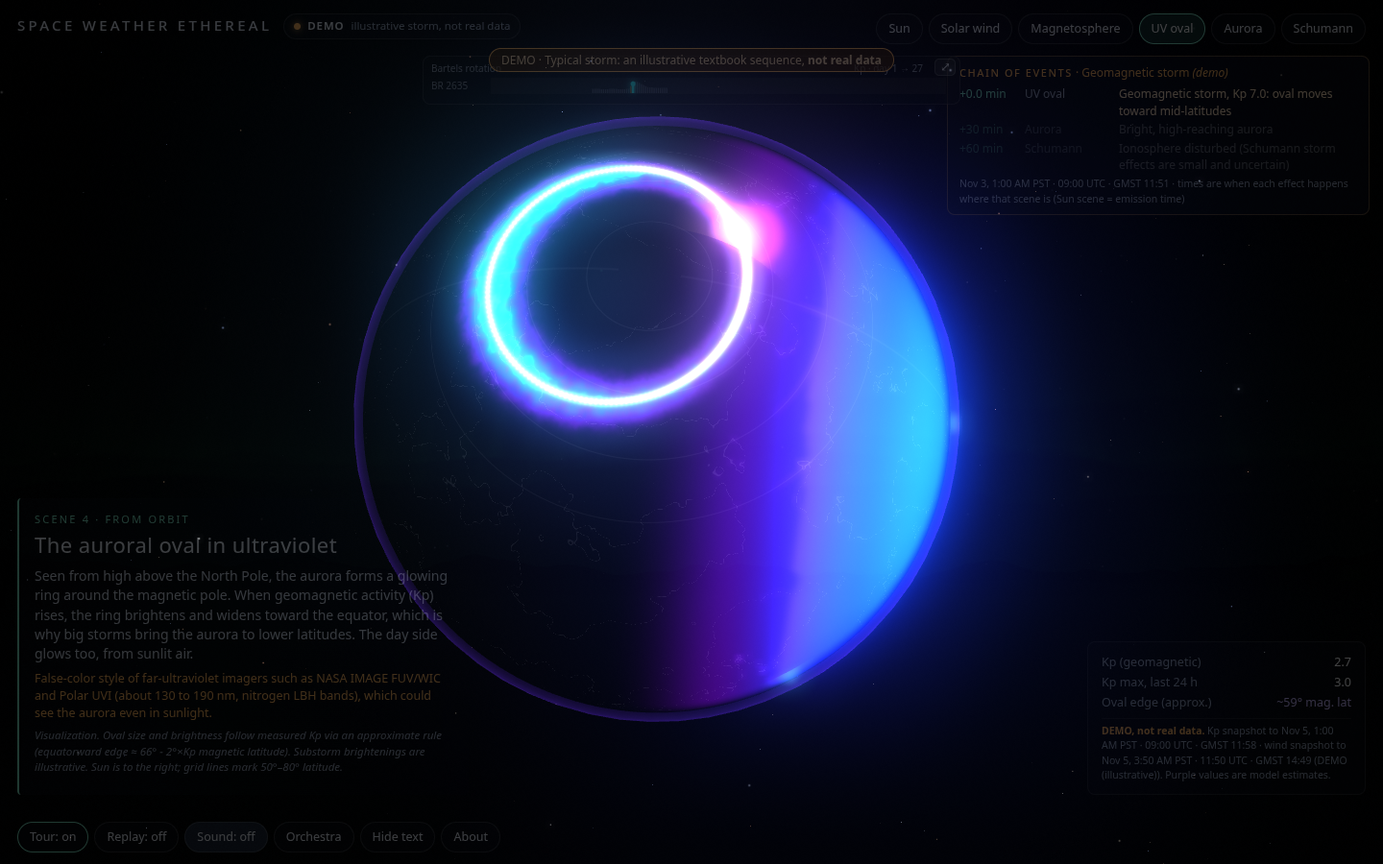
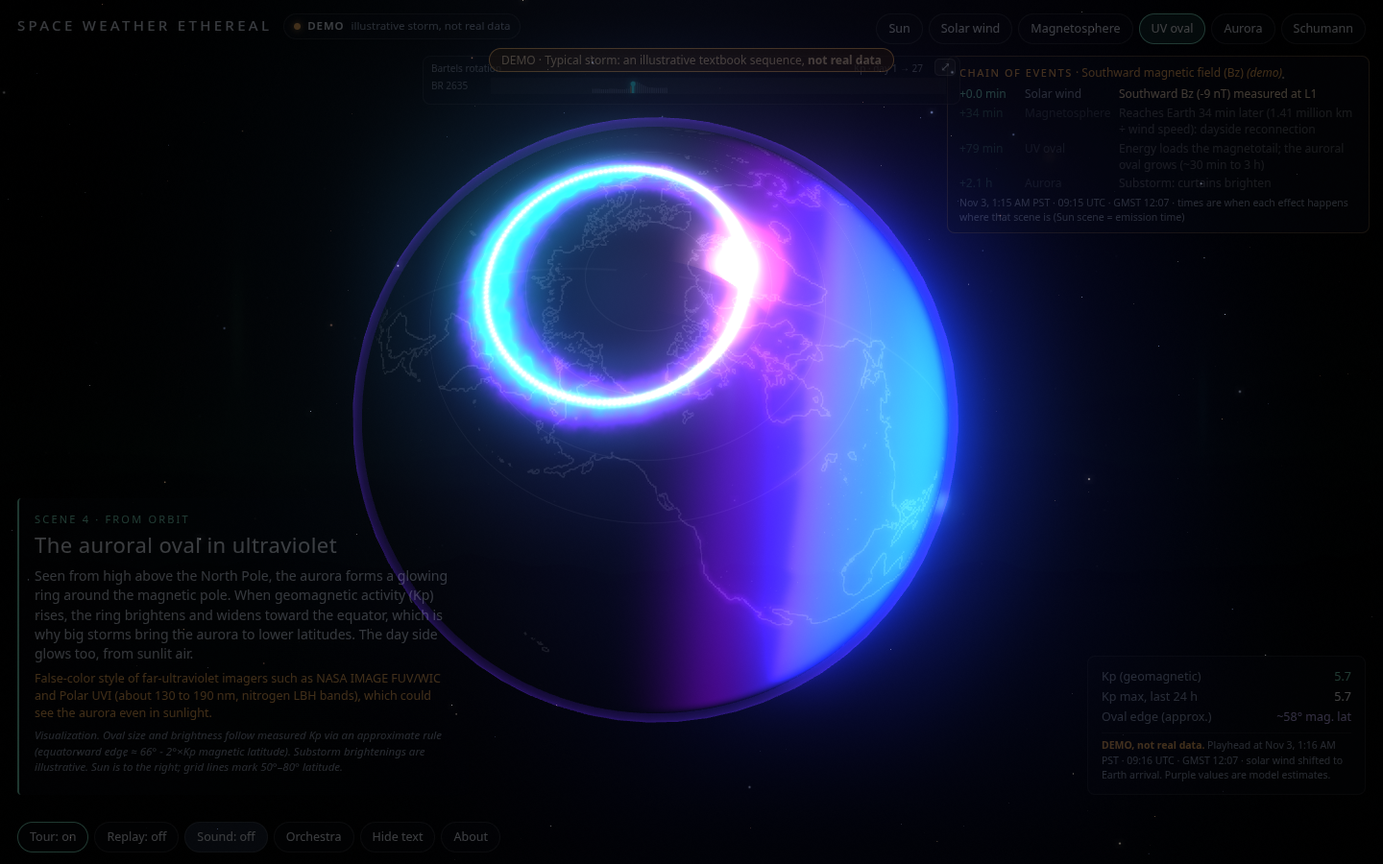
Real Earth on every globe: NASA Blue Marble NG (topography + bathymetry) day imagery, Black Marble 2016 night lights, ocean glint from a water mask, real coastlines in the UV oval; textures served from assets/ (4K desktop, 2K phones) with procedural fallback while loading; credits in About, NOTICE a

diff --git a/js/scenes/schumann.js b/js/scenes/schumann.js
@@ -2,6 +2,7 @@ import * as THREE from 'three';
 import { NOISE } from '../glsl.js';
 import { makeStars, makeNebula } from '../stars.js';
 import { LAND_W, LAND_H } from '../landmask.js';
+import { EARTH_U, EARTH_GLSL } from '../earthtex.js';
 import { land, srAt, srSpectrum, sampleStorm, diurnal, geo, subsolar, REGIONS, SR_F0 } from '../schumann.js';
 
 // Scene 6: the Earth-ionosphere cavity and its Schumann resonances (MODELED, see js/schumann.js).
@@ -26,15 +27,17 @@ export function createSchumann(ctx) {
     uTime: { value: 0 }, uSun: { value: sunDir }, uLand: { value: tex }, uFlare: { value: 0 }, uPCA: { value: 0 }, uStorm: { value: 0 },
     uA: { value: [1, 0.7, 0.5, 0.35, 0.25] }, uPh: { value: [0, 0, 0, 0, 0] }, uHi: { value: [0, 0, 0, 0, 0] },
     uAxis: { value: new THREE.Vector3(...CENTERS[1]) }, uHiCol: { value: new THREE.Color(1, 1, 1) }, uI: { value: 1 }, uKp: { value: 2 },
+    ...EARTH_U,
   };
   const geoGLSL = /* glsl */`
     vec2 lonlat(vec3 p){ return vec2(atan(-p.z, p.x), asin(clamp(p.y,-1.0,1.0))); }`;
   // ---------- Earth
   const earth = new THREE.Mesh(new THREE.SphereGeometry(1, 128, 64), new THREE.ShaderMaterial({
     uniforms: U,
-    vertexShader: `varying vec3 vP; varying vec3 vN; varying vec3 vV; void main(){ vP=normalize(position); vN=normalize(mat3(modelMatrix)*normal); vec4 w=modelMatrix*vec4(position,1.0); vV=normalize(cameraPosition-w.xyz); gl_Position=projectionMatrix*viewMatrix*w; }`,
-    fragmentShader: NOISE + geoGLSL + /* glsl */`
-      uniform sampler2D uLand; uniform vec3 uSun; uniform float uTime, uFlare; varying vec3 vP; varying vec3 vN; varying vec3 vV;
+    vertexShader: `varying vec3 vP; varying vec3 vN; varying vec3 vV; varying vec2 vUv; varying vec3 vVl; void main(){ vUv=uv; vP=normalize(position); vN=normalize(mat3(modelMatrix)*normal); vec4 w=modelMatrix*vec4(position,1.0); vV=normalize(cameraPosition-w.xyz);
+      vVl = normalize((inverse(modelMatrix)*vec4(cameraPosition,1.0)).xyz - position); gl_Position=projectionMatrix*viewMatrix*w; }`,
+    fragmentShader: NOISE + geoGLSL + EARTH_GLSL + /* glsl */`
+      uniform sampler2D uLand; uniform vec3 uSun; uniform float uTime, uFlare; varying vec3 vP; varying vec3 vN; varying vec3 vV; varying vec2 vUv; varying vec3 vVl;
       void main(){
         vec2 ll = lonlat(vP);
         vec2 uv = vec2((ll.x + 3.14159265)/6.2831853, (1.5707963 - ll.y)/3.14159265);
@@ -51,6 +54,9 @@ export function createSchumann(ctx) {
         float day = smoothstep(-0.1, 0.25, d);
         vec3 col = c*(0.05 + 0.72*day);
         col += vec3(1.0,0.65,0.3) * landM * (1.0-day) * smoothstep(0.6,0.8, snoise(vP*55.0)) * 0.12; // faint city lights
+        // real Earth (NASA Blue Marble), a little dimmer so the cavity modes and lightning stay readable
+        // (sphere uv: same lon/lat as the land mask above, seamless; lighting in the globe's own frame)
+        if (uEarthOn > 0.5) col = earthLit(vUv, normalize(vP), normalize(uSun), normalize(vVl), 0.62, 0.05);
         float rim = pow(1.0 - max(dot(normalize(vN), normalize(vV)),0.0), 3.0);
         col += vec3(0.25,0.5,1.0) * rim * (0.12 + 0.6*max(d+0.2,0.0));
         gl_FragColor = vec4(col, 1.0);
@@ -94,7 +100,8 @@ export function createSchumann(ctx) {
   // ---------- ionosphere shell (the cavity ceiling): dayside brighter; flares, protons and storms light it
   const ion = new THREE.Mesh(new THREE.SphereGeometry(ION_R, 96, 48), new THREE.ShaderMaterial({
     uniforms: U, transparent: true, depthWrite: false, blending: THREE.AdditiveBlending, side: THREE.DoubleSide,
-    vertexShader: `varying vec3 vP; varying vec3 vN; varying vec3 vV; void main(){ vP=normalize(position); vN=normalize(mat3(modelMatrix)*normal); vec4 w=modelMatrix*vec4(position,1.0); vV=normalize(cameraPosition-w.xyz); gl_Position=projectionMatrix*viewMatrix*w; }`,
+    vertexShader: `varying vec3 vP; varying vec3 vN; varying vec3 vV; varying vec2 vUv; varying vec3 vVl; void main(){ vUv=uv; vP=normalize(position); vN=normalize(mat3(modelMatrix)*normal); vec4 w=modelMatrix*vec4(position,1.0); vV=normalize(cameraPosition-w.xyz);
+      vVl = normalize((inverse(modelMatrix)*vec4(cameraPosition,1.0)).xyz - position); gl_Position=projectionMatrix*viewMatrix*w; }`,
     fragmentShader: NOISE + /* glsl */`
       uniform vec3 uSun; uniform float uTime, uFlare, uPCA, uStorm, uKp; varying vec3 vP; varying vec3 vN; varying vec3 vV;
       void main(){

diff --git a/js/scenes/earth.js b/js/scenes/earth.js
@@ -1,40 +1,44 @@
 import * as THREE from 'three';
 import { NOISE } from '../glsl.js';
+import { EARTH_U, EARTH_GLSL, loadEarth } from '../earthtex.js';
 
-// Procedural Earth (not a map): noise continents, day/night terminator, thin atmosphere rim.
+// Earth from NASA Blue Marble imagery (real continents and oceans; procedural fallback until it loads),
+// day/night terminator, ocean glint, Black Marble city lights, thin atmosphere rim.
 // Optional auroral-oval emission (opts.aurora) drawn by the same shader.
 export function makeEarth(radius, opts = {}) {
+  loadEarth({ low: opts.low });
   const mat = new THREE.ShaderMaterial({
     uniforms: {
       uSun: { value: (opts.sun || new THREE.Vector3(1, 0, 0)).clone() },
       uKp: { value: 2 }, uTime: { value: 0 }, uAur: { value: opts.aurora ? 1 : 0 },
-      uSpin: { value: 0 }, uDay: { value: opts.day ?? 1 },
+      uSpin: { value: 0 }, uDay: { value: opts.day ?? 1 }, ...EARTH_U,
     },
     vertexShader: /* glsl */`
-      varying vec3 vN; varying vec3 vP; varying vec3 vV;
-      void main(){ vP = normalize(position); vN = normalize(mat3(modelMatrix)*normal);
+      varying vec3 vN; varying vec3 vP; varying vec3 vV; varying vec2 vUv;
+      void main(){ vUv = uv; vP = normalize(position); vN = normalize(mat3(modelMatrix)*normal);
         vec4 w = modelMatrix*vec4(position,1.0); vV = normalize(cameraPosition - w.xyz);
         gl_Position = projectionMatrix*viewMatrix*w; }`,
-    fragmentShader: NOISE + /* glsl */`
+    fragmentShader: NOISE + EARTH_GLSL + /* glsl */`
       uniform vec3 uSun; uniform float uKp, uTime, uAur, uSpin, uDay;
-      varying vec3 vN; varying vec3 vP; varying vec3 vV;
+      varying vec3 vN; varying vec3 vP; varying vec3 vV; varying vec2 vUv;
       void main(){
-        // spin the surface pattern (geographic) under the fixed Sun
-        float cs = cos(uSpin), sn = sin(uSpin);
-        vec3 g = vec3(cs*vP.x - sn*vP.z, vP.y, sn*vP.x + cs*vP.z);
-        float h = fbm(g*1.8 + 3.0);
-        float land = smoothstep(0.02, 0.09, h);
-        float ice = smoothstep(0.80, 0.92, abs(vP.y));
-        vec3 ocean = vec3(0.03,0.10,0.26), ground = mix(vec3(0.16,0.24,0.12), vec3(0.32,0.28,0.18), smoothstep(0.1,0.4,h));
-        vec3 c = mix(ocean, ground, land); c = mix(c, vec3(0.75,0.8,0.86), ice);
-        float cloud = smoothstep(0.15, 0.6, fbm3(g*3.5 + vec3(uTime*0.004,0,0)));
-        c = mix(c, vec3(0.85), cloud*0.45);
         float d = dot(normalize(vN), normalize(uSun));
-        float day = smoothstep(-0.08, 0.25, d);
-        vec3 col = c * (0.035 + 1.05*day*uDay);
-        // city lights on the night side (faint)
-        float city = smoothstep(0.55, 0.75, snoise(g*40.0)) * land * (1.0-ice) * (1.0-day);
-        col += vec3(1.0,0.7,0.35)*city*0.25;
+        vec3 col;
+        if (uEarthOn > 0.5) {
+          // real Earth (NASA Blue Marble + Black Marble); the globe spins under the fixed Sun
+          col = earthLit(vec2(vUv.x - uSpin/6.2831853, vUv.y), normalize(vN), normalize(uSun), normalize(vV), uDay, 0.035);
+        } else {
+          // procedural stand-in while the imagery loads
+          float cs = cos(uSpin), sn = sin(uSpin);
+          vec3 g = vec3(cs*vP.x - sn*vP.z, vP.y, sn*vP.x + cs*vP.z);
+          float h = fbm(g*1.8 + 3.0);
+          float land = smoothstep(0.02, 0.09, h);
+          float ice = smoothstep(0.80, 0.92, abs(vP.y));
+          vec3 ocean = vec3(0.03,0.10,0.26), ground = mix(vec3(0.16,0.24,0.12), vec3(0.32,0.28,0.18), smoothstep(0.1,0.4,h));
+          vec3 c = mix(ocean, ground, land); c = mix(c, vec3(0.75,0.8,0.86), ice);
+          float day = smoothstep(-0.08, 0.25, d);
+          col = c * (0.035 + 1.05*day*uDay);
+        }
         // atmosphere rim
         float rim = pow(1.0 - max(dot(normalize(vN), normalize(vV)),0.0), 3.0);
         col += vec3(0.25,0.5,1.0) * rim * (0.15 + 0.7*max(d+0.2,0.0));

diff --git a/js/earthtex.js b/js/earthtex.js
@@ -1,0 +1,49 @@
+import * as THREE from 'three';
+
+// Real Earth imagery shared by every globe (magnetosphere, solar wind, Schumann, UV oval).
+// NASA Earth Observatory, public domain (see assets/README.md):
+//   day   - Blue Marble Next Generation with topography and bathymetry, September 2004
+//   aux R - water mask (from the Blue Marble base map): ocean glint and coastlines
+//   aux G - Black Marble 2016 night lights
+// Equirectangular, x = 0 at 180° W, top row = 90° N. On a three.js SphereGeometry the default uv
+// already matches that (u = 0.5 at +x = 0° longitude, +z = 90° W, v = 1 at +y = north), which is the
+// same lon/lat convention the Schumann scene and its land mask use. Until the images arrive, the
+// shaders fall back to their procedural surface (uEarthOn = 0).
+const base = new URL('../assets/', import.meta.url).href;
+let started = false, low = false;
+const blank = (rgb) => { const t = new THREE.DataTexture(new Uint8Array([...rgb, 255]), 1, 1); t.needsUpdate = true; return t; };
+export const EARTH_U = {
+  uEarthDay: { value: blank([6, 20, 50]) },
+  uEarthAux: { value: blank([255, 0, 0]) },
+  uEarthOn: { value: 0 },
+};
+const state = { day: null, aux: null, loaded: 0, errors: [], anis: 1, ms: 0 };
+export function loadEarth(opts = {}) {
+  if (started) return EARTH_U; started = true; low = !!opts.low;
+  const t0 = performance.now(), L = new THREE.TextureLoader();
+  const done = () => { if (state.loaded === 2) { EARTH_U.uEarthOn.value = 1; state.ms = Math.round(performance.now() - t0); } };
+  const prep = (t) => { t.colorSpace = THREE.NoColorSpace; t.wrapS = THREE.RepeatWrapping; t.anisotropy = state.anis; t.minFilter = THREE.LinearMipmapLinearFilter; t.needsUpdate = true; return t; };
+  state.day = (low ? 'earth_day_2048.jpg' : 'earth_day_4096.jpg'); state.aux = 'earth_aux_2048.jpg';
+  L.load(base + state.day, (t) => { EARTH_U.uEarthDay.value = prep(t); state.loaded++; done(); }, undefined, (e) => state.errors.push('day: ' + (e && e.message || e)));
+  L.load(base + state.aux, (t) => { EARTH_U.uEarthAux.value = prep(t); state.loaded++; done(); }, undefined, (e) => state.errors.push('aux: ' + (e && e.message || e)));
+  return EARTH_U;
+}
+export function setEarthAnisotropy(n) { state.anis = Math.min(8, n || 1); for (const k of ['uEarthDay', 'uEarthAux']) { const t = EARTH_U[k].value; if (t && t.isTexture && !t.isDataTexture) { t.anisotropy = state.anis; t.needsUpdate = true; } } }
+export function earthStatus() { return { on: EARTH_U.uEarthOn.value, files: [state.day, state.aux], loaded: state.loaded, ms: state.ms, errors: state.errors, anisotropy: state.anis }; }
+
+// GLSL: sample the real Earth at a sphere uv (u shifted by -spin/2pi when the globe spins under a fixed Sun)
+export const EARTH_GLSL = /* glsl */`
+  uniform sampler2D uEarthDay, uEarthAux; uniform float uEarthOn;
+  vec3 earthDay(vec2 uv){ return texture2D(uEarthDay, uv).rgb; }
+  vec2 earthAux(vec2 uv){ return texture2D(uEarthAux, uv).rg; }   // x = water (1 = ocean), y = night lights
+  // lit real-Earth color: day side imagery, ocean glint toward the Sun, city lights on the night side
+  vec3 earthLit(vec2 uv, vec3 N, vec3 L, vec3 V, float dayAmt, float ambient){
+    vec3 day = earthDay(uv); vec2 ax = earthAux(uv);
+    float d = dot(N, L);
+    float lit = smoothstep(-0.10, 0.30, d);
+    vec3 col = day * (ambient + 0.95*lit*dayAmt);
+    vec3 H = normalize(L + V);
+    col += vec3(1.0, 0.92, 0.8) * ax.x * pow(max(dot(N, H), 0.0), 90.0) * 0.32 * lit * dayAmt;  // sun glint on water
+    col += vec3(1.0, 0.72, 0.38) * pow(ax.y, 1.6) * 0.9 * (1.0 - smoothstep(-0.18, 0.06, d)); // night lights
+    return col;
+  }`;

diff --git a/js/scenes/aurora.js b/js/scenes/aurora.js
@@ -1,4 +1,5 @@
 import * as THREE from 'three';
+import { EARTH_U, EARTH_GLSL } from '../earthtex.js';
 import { NOISE, rng } from '../glsl.js';
 import { makeStars } from '../stars.js';
 
@@ -16,16 +17,16 @@ export function createOval(ctx) {
   const camera = new THREE.PerspectiveCamera(40, 1, 0.1, 5000);
   camera.position.set(0, 34, 8);
   const RE = 8;
-  const U = { uTime: { value: 0 }, uKp: { value: 2 }, uSpin: { value: 0 }, uSub: { value: 0 } };
+  const U = { uTime: { value: 0 }, uKp: { value: 2 }, uSpin: { value: 0 }, uSub: { value: 0 }, ...EARTH_U };
   const mat = new THREE.ShaderMaterial({
     uniforms: U,
     vertexShader: /* glsl */`
-      varying vec3 vP; varying vec3 vN; varying vec3 vV;
-      void main(){ vP = normalize(position); vN = normalize(mat3(modelMatrix)*normal);
+      varying vec3 vP; varying vec3 vN; varying vec3 vV; varying vec2 vUv;
+      void main(){ vUv = uv; vP = normalize(position); vN = normalize(mat3(modelMatrix)*normal);
         vec4 w = modelMatrix*vec4(position,1.0); vV = normalize(cameraPosition-w.xyz);
         gl_Position = projectionMatrix*viewMatrix*w; }`,
-    fragmentShader: NOISE + /* glsl */`
-      uniform float uTime, uKp, uSpin, uSub; varying vec3 vP; varying vec3 vN; varying vec3 vV;
+    fragmentShader: NOISE + EARTH_GLSL + /* glsl */`
+      uniform float uTime, uKp, uSpin, uSub; varying vec3 vP; varying vec3 vN; varying vec3 vV; varying vec2 vUv;
       vec3 uvi(float x){ // black-purple-blue-cyan-green-yellow-red-white false-color bar
         x = clamp(x, 0.0, 1.0);
         vec3 c = mix(vec3(0.0), vec3(0.28,0.0,0.45), smoothstep(0.0,0.12,x));
@@ -58,12 +59,19 @@ export function createOval(ctx) {
         float dayglow = 0.30*smoothstep(-0.1, 0.9, sza);
         float v = dayglow + aur;
         vec3 col = uvi(v);
-        // faint procedural "coastlines" and magnetic latitude grid, as overlaid on UV images
-        float cs = cos(uSpin), sn = sin(uSpin);
-        vec3 g = vec3(cs*vP.x - sn*vP.z, vP.y, sn*vP.x + cs*vP.z);
-        float h = fbm(g*1.8 + 3.0);
-        float coast = 1.0 - smoothstep(0.0, 0.006, abs(h - 0.05));
-        col += vec3(0.5)*coast*0.16;
+        // coastlines and magnetic latitude grid, as overlaid on UV images (real coastlines from the
+        // NASA Blue Marble water mask once it has loaded; procedural before that)
+        float coast;
+        if (uEarthOn > 0.5) {
+          float w = earthAux(vec2(vUv.x - uSpin/6.2831853, vUv.y)).x;
+          coast = 1.0 - smoothstep(0.0, 1.6*fwidth(w) + 1e-4, abs(w - 0.5));
+        } else {
+          float cs = cos(uSpin), sn = sin(uSpin);
+          vec3 g = vec3(cs*vP.x - sn*vP.z, vP.y, sn*vP.x + cs*vP.z);
+          float h = fbm(g*1.8 + 3.0);
+          coast = 1.0 - smoothstep(0.0, 0.006, abs(h - 0.05));
+        }
+        col += vec3(0.5)*coast*0.2;
         float grid = 0.0;
         for (int k=5;k<=8;k++){ grid += 1.0 - smoothstep(0.0, 0.18, abs(lat - float(k)*10.0)); }
         float mer = (1.0 - smoothstep(0.0, 0.006, abs(vP.z))) * step(lat, 85.0);

diff --git a/js/scenes/wind.js b/js/scenes/wind.js
@@ -1,6 +1,7 @@
 import * as THREE from 'three';
 import { NOISE, rng } from '../glsl.js';
 import { makeStars, makeNebula } from '../stars.js';
+import { EARTH_U, EARTH_GLSL } from '../earthtex.js';
 
 // Scene 2: the solar wind streaming from the Sun past Earth, with the Parker spiral.
 // Spiral pitch uses the real relation tan(psi) = Omega_sun * r / v (about 45 degrees at 1 AU
@@ -115,13 +116,16 @@ export function createWind(ctx) {
   // --- Earth with a hint of its magnetic bubble, and Earth's orbit
   const earth = new THREE.Group(); earth.position.set(AU, 0, 0); scene.add(earth);
   earth.add(new THREE.Mesh(new THREE.SphereGeometry(1.4, 48, 24), new THREE.ShaderMaterial({
-    uniforms: { uSun: { value: new THREE.Vector3(-1, 0, 0) } },
-    vertexShader: `varying vec3 vN; varying vec3 vW; void main(){ vN=normalize(mat3(modelMatrix)*normal); vW=normalize(position); gl_Position=projectionMatrix*modelViewMatrix*vec4(position,1.0);} `,
-    fragmentShader: NOISE + `uniform vec3 uSun; varying vec3 vN; varying vec3 vW; void main(){
-      float land = smoothstep(0.05,0.12,fbm3(vW*2.2));
-      vec3 c = mix(vec3(0.05,0.18,0.45), vec3(0.22,0.35,0.2), land);
-      float d = max(dot(vN,uSun),0.0); float rim = pow(max(1.0-abs(vN.z),0.0),3.0);
-      gl_FragColor = vec4(c*(0.12+1.1*d) + vec3(0.3,0.55,1.0)*0.25*d, 1.0);} `,
+    uniforms: { uSun: { value: new THREE.Vector3(-1, 0, 0) }, ...EARTH_U },
+    vertexShader: `varying vec3 vN; varying vec3 vW; varying vec2 vUv; varying vec3 vV; void main(){ vUv=uv; vN=normalize(mat3(modelMatrix)*normal); vW=normalize(position);
+      vec4 w=modelMatrix*vec4(position,1.0); vV=normalize(cameraPosition-w.xyz); gl_Position=projectionMatrix*viewMatrix*w;} `,
+    fragmentShader: NOISE + EARTH_GLSL + `uniform vec3 uSun; varying vec3 vN; varying vec3 vW; varying vec2 vUv; varying vec3 vV; void main(){
+      vec3 N = normalize(vN); float d = max(dot(N,uSun),0.0);
+      vec3 col;
+      if (uEarthOn > 0.5) col = earthLit(vUv, N, uSun, normalize(vV), 1.0, 0.10);   // real Earth (NASA Blue Marble)
+      else { float land = smoothstep(0.05,0.12,fbm3(vW*2.2)); col = mix(vec3(0.05,0.18,0.45), vec3(0.22,0.35,0.2), land)*(0.12+1.1*d); }
+      float rim = pow(1.0 - max(dot(N, normalize(vV)), 0.0), 3.0);
+      gl_FragColor = vec4(col + vec3(0.3,0.55,1.0)*(0.08*d + 0.3*rim*(0.2+d)), 1.0);} `,
   })));
   const shockMat = new THREE.ShaderMaterial({
     uniforms: { uFade: U.uFade, uTime: U.uTime },

diff --git a/js/main.js b/js/main.js
@@ -19,6 +19,7 @@ import { createReactions } from './reactions.js';
 import { BartelsStrip } from './strip.js';
 import { buildPanel } from './panel.js';
 import * as spatial from './spatial.js';
+import { loadEarth, setEarthAnisotropy, earthStatus } from './earthtex.js';
 import { airplaySupported, watchAirPlay, mkAudio, OUT_ID, unlockStats } from './audiounlock.js';
 
 // Colors are authored directly in display space; no color-space conversion anywhere.
@@ -48,6 +49,8 @@ renderer.outputColorSpace = THREE.LinearSRGBColorSpace;
 renderer.toneMapping = THREE.NoToneMapping;
 
 // ---------- scenes
+// real Earth imagery (NASA Blue Marble / Black Marble, served from assets/): 2K on phones, 4K elsewhere
+loadEarth({ low }); setEarthAnisotropy(renderer.capabilities.getMaxAnisotropy());
 const ctx = { pr: Q.pr, particles: Q.particles, stars: Q.stars, mobile: Q.mobile };
 const scenes = [createSun(ctx), createWind(ctx), createMagneto(ctx), createOval(ctx), createCurtain(ctx), createSchumann(ctx)];
 const byId = Object.fromEntries(scenes.map((s, i) => [s.id, i]));
@@ -578,5 +581,5 @@ function setDemo(on) {
     lonIn.addEventListener('change', () => { const x = lonIn.value.trim(); setLon(x === '' ? null : x); setBadge(); readout(); drawMarkers(); drawHUD(); $('lon-note').textContent = getLon() === null ? 'Showing GMST only.' : `Showing LST for ${getLon()}°.`; });
   }
   if (params.get('orch') === '1') toggleOrch(true);
-  window.__spacewx = { spatial, THREE, unlockStats, setStripBig, goQueue, get shown() { return shown; }, get D() { return D; }, P, scenes, go, orch, reactions, strip, opt, chainLog, setDemo, clockT, get cur() { return cur; }, get playK() { return playK; } };
+  window.__spacewx = { spatial, THREE, unlockStats, earthTex: { status: earthStatus }, setStripBig, goQueue, get shown() { return shown; }, get D() { return D; }, P, scenes, go, orch, reactions, strip, opt, chainLog, setDemo, clockT, get cur() { return cur; }, get playK() { return playK; } };
 })();

diff --git a/index.html b/index.html
@@ -80,7 +80,8 @@
     <ul>
       <li>NOAA Space Weather Prediction Center (SWPC): planetary K-index, real-time solar wind and IMF, 10.7 cm flux, SWPC sunspot number. Fetched live when your browser can reach it.</li>
       <li>NOAA SWPC GOES X-ray flux and ≥10 MeV protons (live, with a bundled 7-day snapshot).</li>
-      <li>Natural Earth 1:110m land (public domain) for the continents in the Schumann scene.</li>
+      <li>Earth's surface: NASA Earth Observatory <b>Blue Marble: Next Generation</b> (September 2004, with topography and bathymetry; Reto Stöckli, Jesse Allen, GEBCO data) and <b>Black Marble 2016</b> night lights (Joshua Stevens, Suomi NPP VIIRS data, Miguel Román, NASA GSFC). NASA imagery, public domain in the US; credit NASA. Served from this site.</li>
+      <li>Natural Earth 1:110m land (public domain) for the lightning land mask in the Schumann model.</li>
       <li>GFZ Helmholtz Centre for Geosciences, Potsdam: Kp history, Ap, F10.7 observed, international sunspot number (SILSO). Included as a bundled snapshot.</li>
     </ul>
     <div id="about-status"></div>

diff --git a/tools/shoot_earth.py b/tools/shoot_earth.py
@@ -1,0 +1,40 @@
+#!/usr/bin/env python3
+"""Earth screenshots: python3 tools/shoot_earth.py --tag after -> screenshots/earth-<tag>.png (magnetosphere),
+earth-closeup-<tag>.png, earth-schumann-<tag>.png, earth-wind-<tag>.png, earth-oval-<tag>.png, earth-mobile-<tag>.png"""
+import argparse, json, os, time
+from playwright.sync_api import sync_playwright
+ap = argparse.ArgumentParser(); ap.add_argument("--base", default="http://localhost:8931/"); ap.add_argument("--tag", default="after")
+ap.add_argument("--out", default=os.path.join(os.path.dirname(os.path.dirname(os.path.abspath(__file__))), "screenshots"))
+a = ap.parse_args()
+args = ["--use-angle=swiftshader", "--enable-unsafe-swiftshader", "--ignore-gpu-blocklist", "--enable-webgl"]
+HIDE = "() => { document.getElementById('ui').style.display = 'none'; }"
+def cam(i, target, pos):
+    return f"""() => {{ const s = window.__spacewx; s.go({i}, true); const sc = s.scenes[{i}], c = sc.controls; sc.lastUser = 1e9;
+      c.target.set({target}); sc.camera.position.set({pos}); c.update(); }}"""
+res = {}
+with sync_playwright() as p:
+    b = p.chromium.launch(args=args)
+    for name, kw in (("desk", {"viewport": {"width": 1280, "height": 800}}), ("mobile", {**{k: v for k, v in p.devices["iPhone 13"].items() if k != "default_browser_type"}})):
+        ctx = b.new_context(**kw); pg = ctx.new_page(); errs = []
+        pg.on("pageerror", lambda e, errs=errs: errs.append(str(e)))
+        pg.on("console", lambda m, errs=errs: errs.append(m.text) if m.type == "error" else None)
+        pg.goto(a.base + "?scene=magneto&tour=0&live=0", wait_until="load")
+        pg.wait_for_function("() => window.__spacewx && window.__spacewx.orch.S", timeout=40000); time.sleep(5)
+        if name == "mobile":
+            pg.screenshot(path=os.path.join(a.out, f"earth-mobile-{a.tag}.png"))
+        else:
+            pg.screenshot(path=os.path.join(a.out, f"earth-{a.tag}.png"))
+            pg.evaluate(HIDE)
+            # close-up: Earth from the sunward side (Sun toward +x in the magnetosphere scene)
+            pg.evaluate(cam(2, "0, 0, 0", "2.6, 1.1, 1.6")); time.sleep(4)
+            pg.screenshot(path=os.path.join(a.out, f"earth-closeup-{a.tag}.png"))
+            pg.evaluate(cam(5, "0, 0, 0", "0.6, 1.2, 3.0")); time.sleep(4)
+            pg.screenshot(path=os.path.join(a.out, f"earth-schumann-{a.tag}.png"))
+            pg.evaluate(cam(1, "60, 0, 0", "55, 3, 5")); time.sleep(4)
+            pg.screenshot(path=os.path.join(a.out, f"earth-wind-{a.tag}.png"))
+            pg.evaluate("() => window.__spacewx.go(3, true)"); time.sleep(4)
+            pg.screenshot(path=os.path.join(a.out, f"earth-oval-{a.tag}.png"))
+            res["tex"] = pg.evaluate("() => window.__spacewx.earthTex ? window.__spacewx.earthTex.status() : null")
+        res[name + "_errors"] = errs; ctx.close()
+    b.close()
+print(json.dumps(res, indent=1))

diff --git a/tools/make_earth_textures.py b/tools/make_earth_textures.py
@@ -1,0 +1,24 @@
+#!/usr/bin/env python3
+"""Build the Earth textures in assets/ from NASA originals (public domain, NASA Earth Observatory):
+  world.topo.bathy.200409.3x5400x2700.jpg  Blue Marble Next Generation, Sept 2004, topography + bathymetry
+  world.200409.3x5400x2700.jpg             Blue Marble Next Generation, Sept 2004, base (flat ocean color -> water mask)
+  BlackMarble_2016_01deg_gray.jpg          Black Marble 2016 night lights, grayscale, 0.1 deg
+Download them (URLs in assets/README.md) into one folder and run:  python3 tools/make_earth_textures.py <folder>
+Outputs (equirectangular, x=0 at 180 W, y=0 at 90 N, same as the originals):
+  assets/earth_day_4096.jpg, assets/earth_day_2048.jpg   day color
+  assets/earth_aux_2048.jpg   R = water mask (255 water, for ocean glint and coastlines), G = night lights, B = spare (0)"""
+import sys, os
+import numpy as np
+from PIL import Image, ImageFilter
+src = sys.argv[1] if len(sys.argv) > 1 else '.'
+out = os.path.join(os.path.dirname(os.path.dirname(os.path.abspath(__file__))), 'assets')
+day = Image.open(os.path.join(src, 'world.topo.bathy.200409.3x5400x2700.jpg')).convert('RGB')
+for w, q in ((4096, 82), (2048, 85)):
+    day.resize((w, w // 2), Image.LANCZOS).save(os.path.join(out, f'earth_day_{w}.jpg'), quality=q, optimize=True, progressive=True)
+base = np.asarray(Image.open(os.path.join(src, 'world.200409.3x5400x2700.jpg')).convert('RGB')).astype(np.int32)
+water = (np.abs(base[..., 0] - 2) + np.abs(base[..., 1] - 5) + np.abs(base[..., 2] - 20) < 18).astype(np.uint8) * 255
+W = Image.fromarray(water).resize((2048, 1024), Image.BOX).filter(ImageFilter.GaussianBlur(0.6))
+night = Image.open(os.path.join(src, 'BlackMarble_2016_01deg_gray.jpg')).convert('L').resize((2048, 1024), Image.LANCZOS)
+relief = Image.new('L', (2048, 1024), 0)  # spare channel (the day image already has shaded relief)
+Image.merge('RGB', (W, night, relief)).save(os.path.join(out, 'earth_aux_2048.jpg'), quality=85, optimize=True)
+for f in sorted(os.listdir(out)): print(f, os.path.getsize(os.path.join(out, f)))

diff --git a/assets/README.md b/assets/README.md
@@ -1,0 +1,23 @@
+# Earth imagery
+
+All three images are NASA Earth Observatory products. NASA imagery is not copyrighted in the United States and may be reused and redistributed freely; NASA asks for credit (NASA image use guidelines: https://www.nasa.gov/nasa-brand-center/images-and-media/). It must not be used to imply NASA endorsement.
+
+| File | Size | What it is | Made from |
+| --- | --- | --- | --- |
+| `earth_day_4096.jpg` | 4096 × 2048, ~0.97 MB | Day color (desktop) | Blue Marble: Next Generation with Topography and Bathymetry, September 2004, `world.topo.bathy.200409.3x5400x2700.jpg` |
+| `earth_day_2048.jpg` | 2048 × 1024, ~0.32 MB | Day color (phones) | same |
+| `earth_aux_2048.jpg` | 2048 × 1024, ~0.18 MB | R = water mask (ocean glint, coastlines in the UV oval scene); G = night lights; B unused | water: Blue Marble: Next Generation base map, September 2004, `world.200409.3x5400x2700.jpg` (flat ocean color thresholded); lights: Black Marble 2016 grayscale, 0.1°, `BlackMarble_2016_01deg_gray.jpg` |
+
+Credits:
+- Blue Marble: Next Generation: Reto Stöckli, NASA Earth Observatory (NASA Goddard Space Flight Center), with topography and bathymetry shading by Jesse Allen, NASA Earth Observatory, using GEBCO data from the British Oceanographic Data Centre.
+- Black Marble 2016: NASA Earth Observatory images by Joshua Stevens, using Suomi NPP VIIRS data from Miguel Román, NASA Goddard Space Flight Center.
+
+Sources (downloaded 2026-11-05):
+- https://assets.science.nasa.gov/content/dam/science/esd/eo/images/bmng/bmng-topography-bathymetry/september/world.topo.bathy.200409.3x5400x2700.jpg
+- https://assets.science.nasa.gov/content/dam/science/esd/eo/images/bmng/bmng-base/september/world.200409.3x5400x2700.jpg
+- https://assets.science.nasa.gov/content/dam/science/esd/eo/images/imagerecords/144000/144897/BlackMarble_2016_01deg_gray.jpg
+(pages: https://science.nasa.gov/earth/earth-observatory/blue-marble-next-generation/ and https://science.nasa.gov/earth/earth-observatory/earth-at-night/maps/)
+
+Rebuild with `python3 tools/make_earth_textures.py <folder with the three originals>`.
+
+Layout: equirectangular (plate carrée), column 0 at 180° W, top row at 90° N. On a three.js `SphereGeometry` the default uv puts u = 0.5 (0° longitude) at +x and 90° W at +z, which matches the Schumann scene's land mask (`js/landmask.js`, Natural Earth); a check of the water mask against that mask agrees on 96.6% of 1° cells at zero offset (69% if mirrored).

diff --git a/README.md b/README.md
@@ -213,6 +213,7 @@ J2000.0 (18h41m50.548s) and Meeus, *Astronomical Algorithms*, examples 12.a and 
 | **NOAA Space Weather Prediction Center (SWPC)**, services.swpc.noaa.gov | Planetary K-index (`products/noaa-planetary-k-index.json`), real-time solar wind plasma and magnetic field (`json/rtsw/rtsw_wind_1m.json`, `json/rtsw/rtsw_mag_1m.json`), 10.7 cm flux (`json/f107_cm_flux.json`), SWPC sunspot number (`json/solar-cycle/swpc_observed_ssn.json`) | Fetched **live in the browser** on every load. These endpoints allow cross-origin requests. Solar wind is averaged into 10-minute means from the active spacecraft, the same way the sonifier does it. |
 | **NOAA SWPC GOES** | X-ray flux 0.1 to 0.8 nm (`json/goes/primary/xrays-1-day.json`) and ≥10 MeV integral protons (`integral-protons-1-day.json`) | Live in the browser (cross-origin allowed); 7-day snapshot in `data.json` from `tools/export_goes.py`. Drives flare and proton-event shifts in the Schumann model and the X-rays player. |
 | **Natural Earth** | 1:110m land polygons (public domain) | Continents in the Schumann scene (`tools/make_landmask.py`) |
+| **NASA Earth Observatory** | Blue Marble: Next Generation (Sept 2004, topography + bathymetry) and Black Marble 2016 night lights; NASA imagery, public domain in the US, credit NASA | The real Earth on every globe: `assets/` (2K on phones, 4K on desktop), ocean glint, city lights, coastlines in the UV oval. Details in `assets/README.md` and `NOTICE` |
 | **GFZ Helmholtz Centre for Geosciences, Potsdam** (kp.gfz.de) | Kp history, Ap, F10.7 observed, international sunspot number (SILSO) | Included in the **bundled snapshot** `data.json` |
 
 If the live fetch fails, the app uses `data.json`. The badge at the top shows **LIVE** (green)
